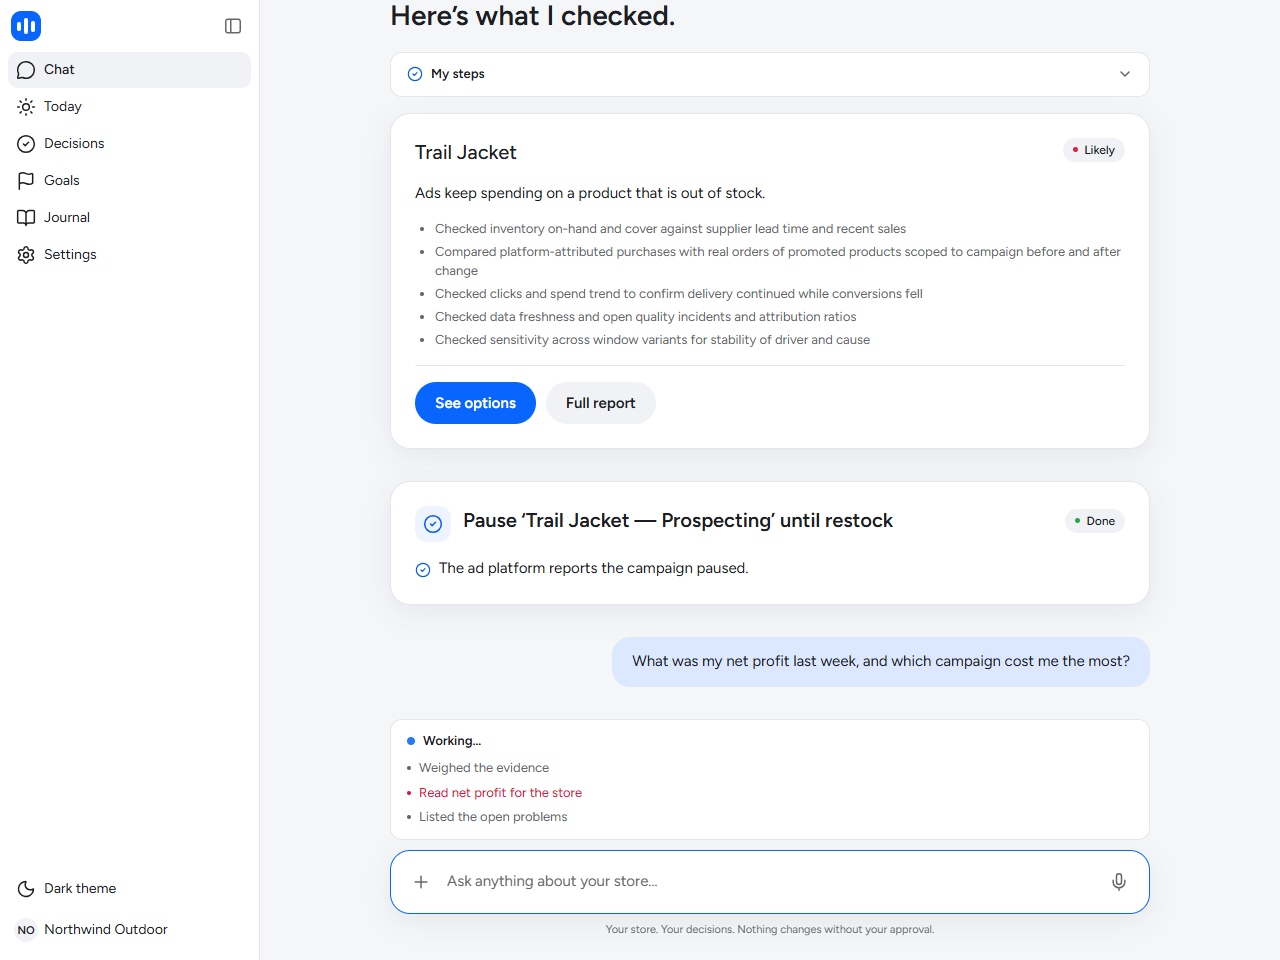
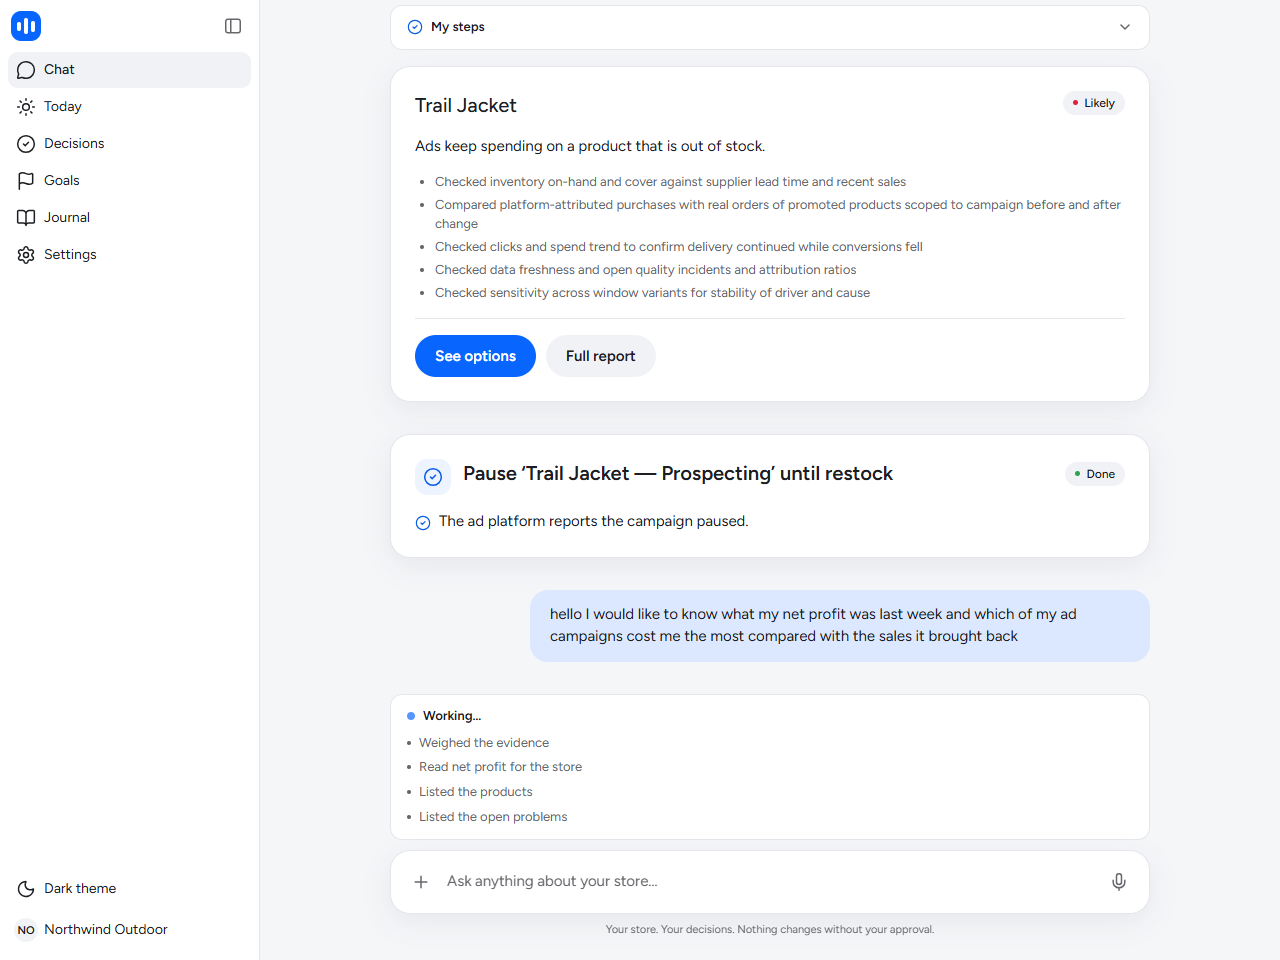
docs(web): pages 2 and 3 screens with the question asked by voice
With the keyword limit fixed, the screens script asks its question by
voice again: the recording, what was heard with the work as it streams,
then the answer. The README records the fix and that live answers can
carry raw metric names in the model's wording.

diff --git a/docs/screens/page-2-3/README.md b/docs/screens/page-2-3/README.md
@@ -7,8 +7,9 @@ the Figma exports in `../figma/`.
 
 They come from `node frontend/scripts/screens.mjs 2-3`, on the demo store (`make demo-seed`), with:
 
-- the API given an `APPROVAL_LINK_SECRET` (the email links) and run with `LLM_MODE=live` for the
-  one question asked (about $0.11 with the investigation it led to);
+- the API given an `APPROVAL_LINK_SECRET` (the email links) and ffmpeg (the recording), and run
+  with `LLM_MODE=live` for the one question, asked by voice: Edge's fake microphone plays the voice
+  tests' recording `question_en.wav` (about $0.04: $0.0005 to hear it, the rest to answer);
 - the executor worker running (`python -m app.executor --loop 5`): the demo store's actions go to
   the simulator;
 - `SCREENS_EXPIRED_LINK`, an approval link made by the backend's own `create_link` dated two days
@@ -24,7 +25,7 @@ conversation): re-seed the demo store afterwards.
 | [chat-decision.png](chat-decision.png) | the light permission frame (the decision in the conversation), Dark · Permission card |
 | [decision-card.png](decision-card.png) | Permission card, light and dark |
 | [decision-live.png](decision-live.png) | none: approved in the conversation, then done with the platform's state read back |
-| [ask.png](ask.png) | the composer only: recording, the work as it streams, the answer |
+| [ask.png](ask.png) | the composer only: recording, what was heard with the work as it streams, the answer |
 | [approval.png](approval.png) | none: a link opened, approved, used again, decided in the app, replaced, expired |
 
 The Figma MCP server is still at its plan's call limit: the light Morning brief, the investigation,
@@ -60,22 +61,22 @@ conversation" frame was fetched before the limit, and is now in `../figma/permis
 
 ### Found while taking these screens
 
-1. **Spoken questions fail on the demo store (backend; needs your approval).** The transcription
-   endpoint refuses any recognition keyword over 30 characters ("ASR keyword 1 exceeds the maximum
-   length of 30 characters"); the backend allows 40 (`MAX_KEYWORD_CHARS` in
-   `backend/app/agent/llm/transcribe.py`). Two of the demo campaign names given in the backend
-   task are longer ("Layers & Camp Kitchen — Lookalike" is 33), so every spoken question there
-   ends with "The answer could not be completed". The fix is `MAX_KEYWORD_CHARS = 30` (a longer
-   name is already left out, not cut). Until then the sheets show the recording and a typed
-   question; the "what was heard, then the answer" screen is missing.
+1. **Spoken questions failed on the demo store** (fixed in the backend, with your approval). The
+   transcription endpoint refuses a recognition keyword over 30 characters; the backend allowed
+   40, and two of the demo campaign names are longer ("Layers & Camp Kitchen — Lookalike" is 33),
+   so every spoken question there ended with "The answer could not be completed". The limit is now
+   30 characters (the endpoint counts characters, not bytes), and such names are left out of the
+   keywords. The sheets show the spoken question heard, then answered.
 2. **The brief's time** is when the briefing was made. On the demo store that is the seed time
-   (here 3:16 PM, today), next to the briefing's own date (Tue, Sep 15, the demo data's last day);
-   on a real store both are the same morning.
+   (the afternoon the screens were taken), next to the briefing's own date (Tue, Sep 15, the
+   demo data's last day); on a real store both are the same morning.
 3. **The brief's narrative repeats the money at stake** ("costing about $5,743 to $6,469 per month
    out of about $5,743 to $6,469 at stake"): the briefing's text, from the backend.
-4. **Live answers vary.** Asked "What was my net profit last week, and which campaign cost me the
-   most?", this run answered the profit and could not name the campaign (flagged "Little
-   evidence"); an earlier run named "Layers & Camp Kitchen — Lookalike" with $517 of spend.
+4. **Live answers vary, and can use raw metric names.** Asked which campaign cost the most
+   compared with the sales it brought back, one run answered the profit and could not name the
+   campaign; this one names "Trail Jacket — Prospecting" but writes "net_profit", "ad_spend",
+   "attributed_revenue" and "roas 0.00×" as they are (flagged "Little evidence"). That wording
+   is the model's, in the answer contract's text; the page renders it as text.
 5. **The investigation has no duration or cited facts in its API** (reported before):
    the steps are shown without "took 12 s", and facts it cites are fetched one by one.
 
